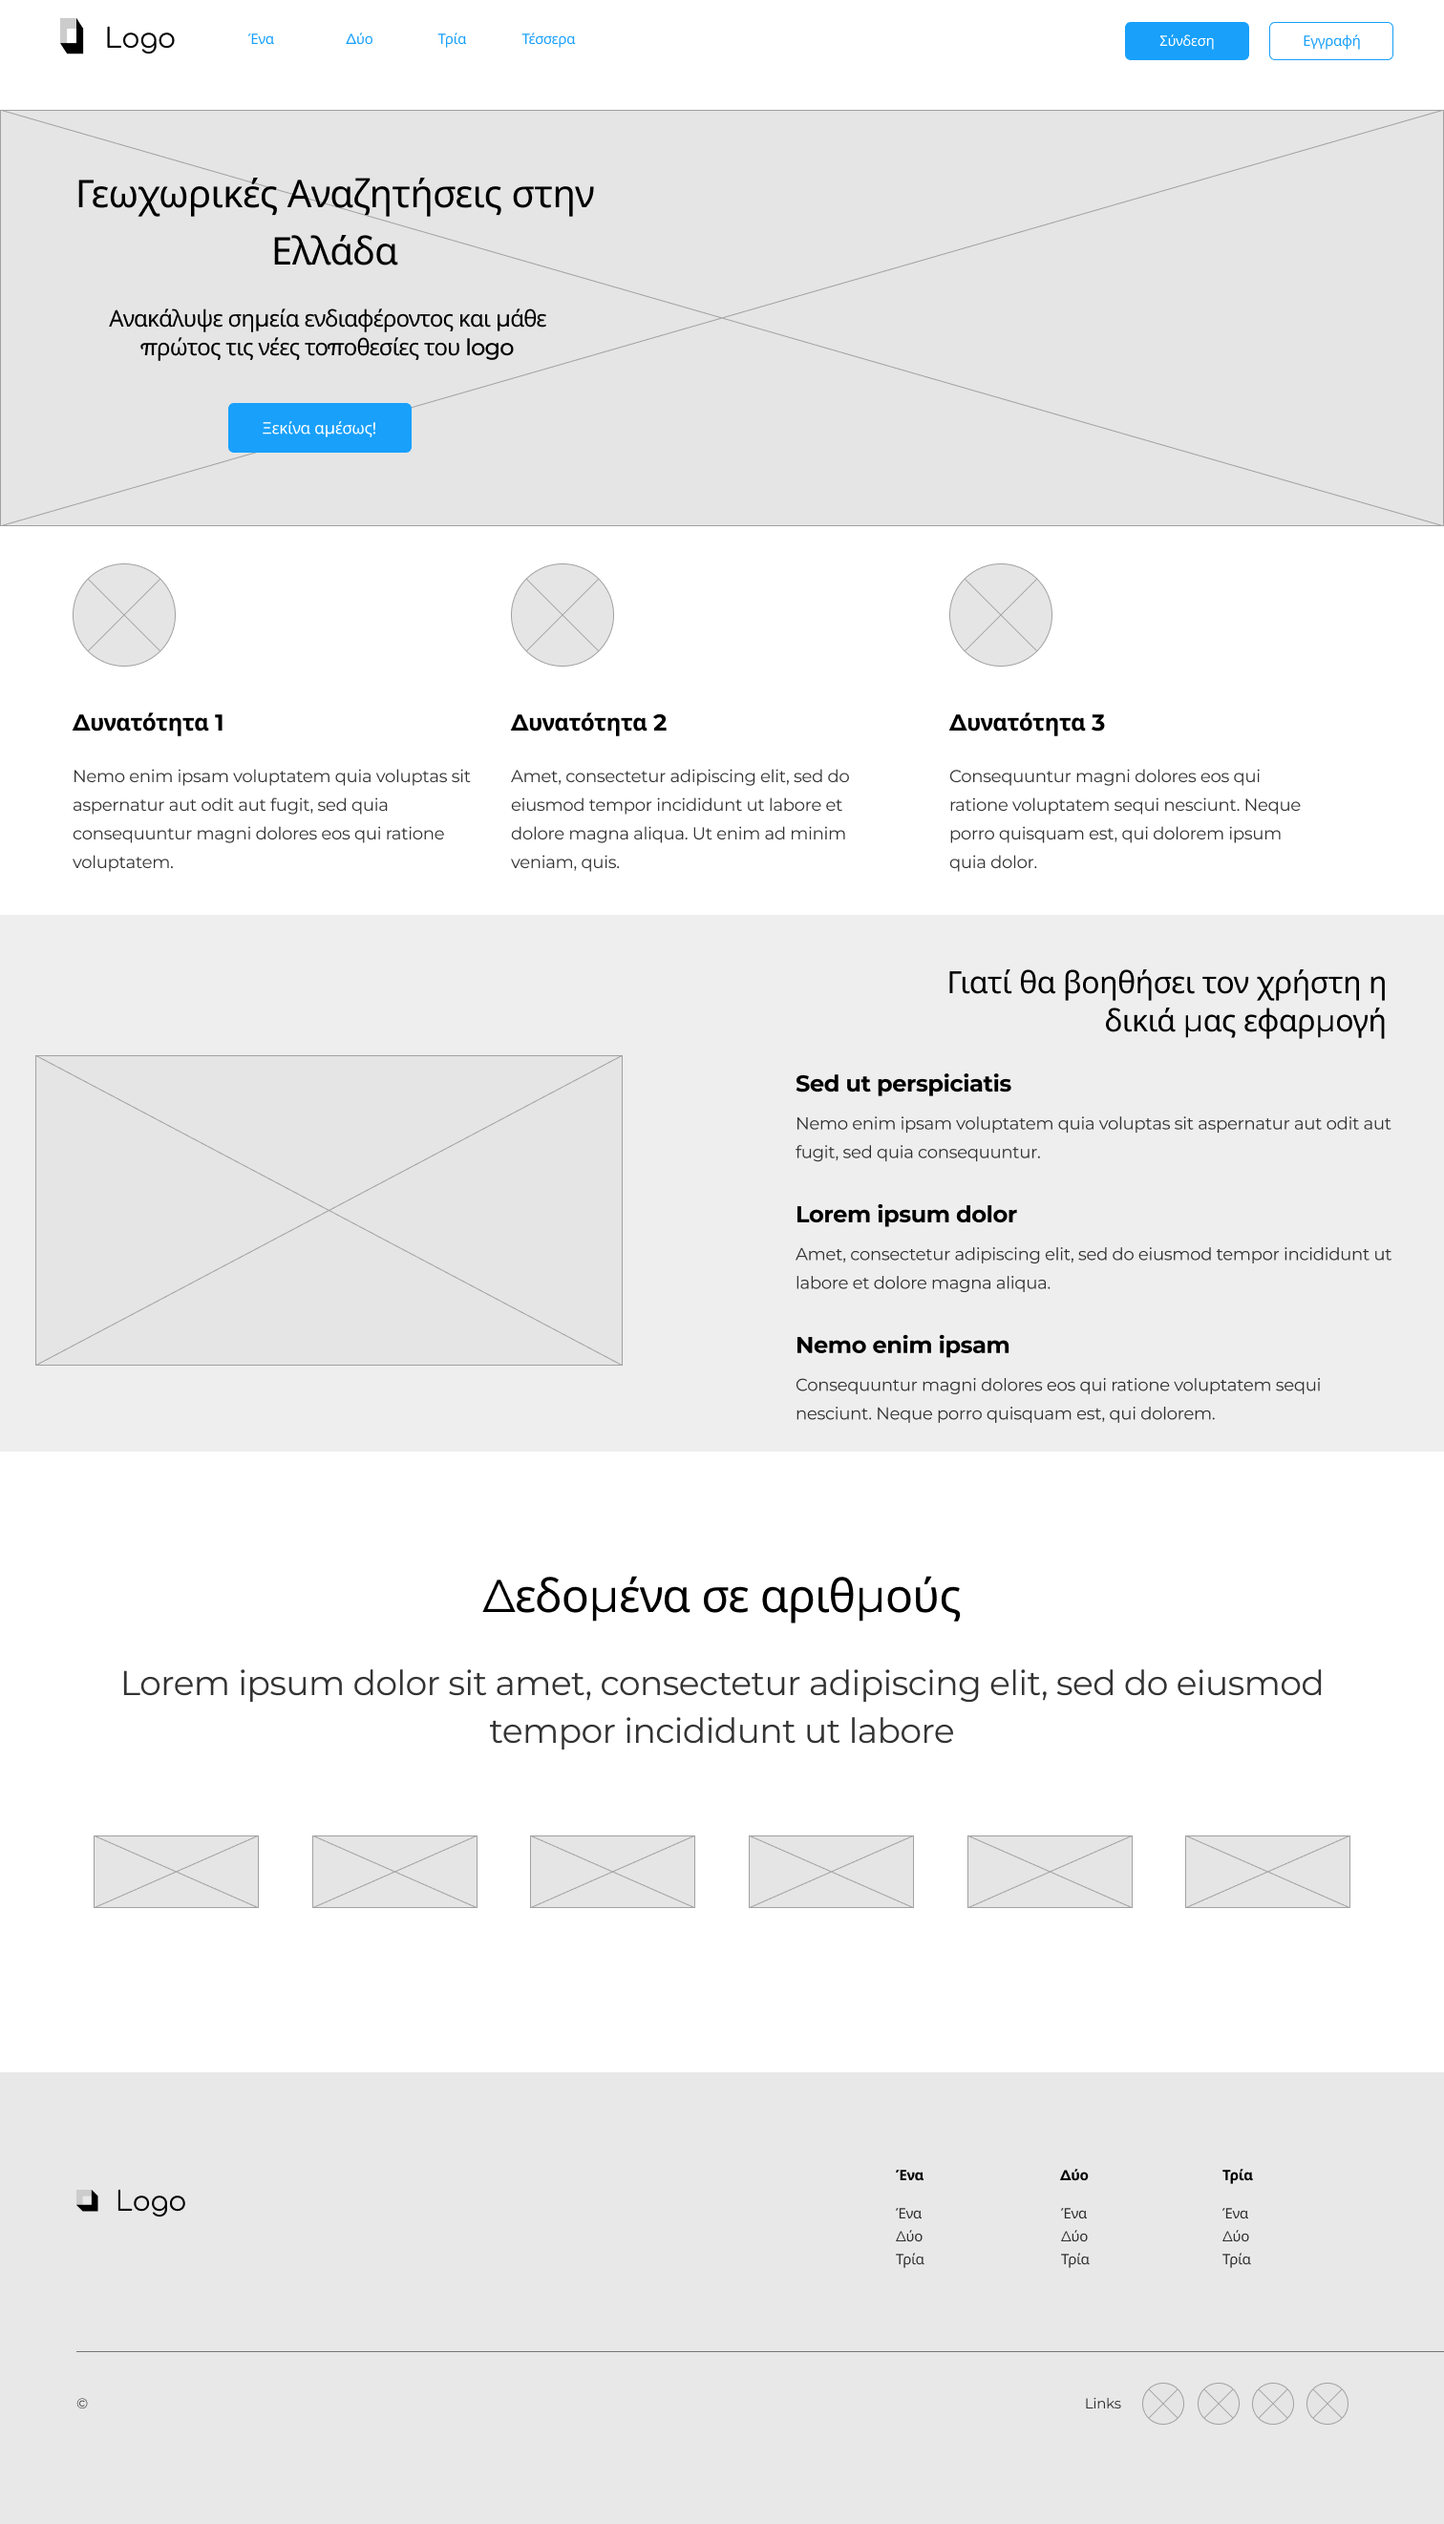
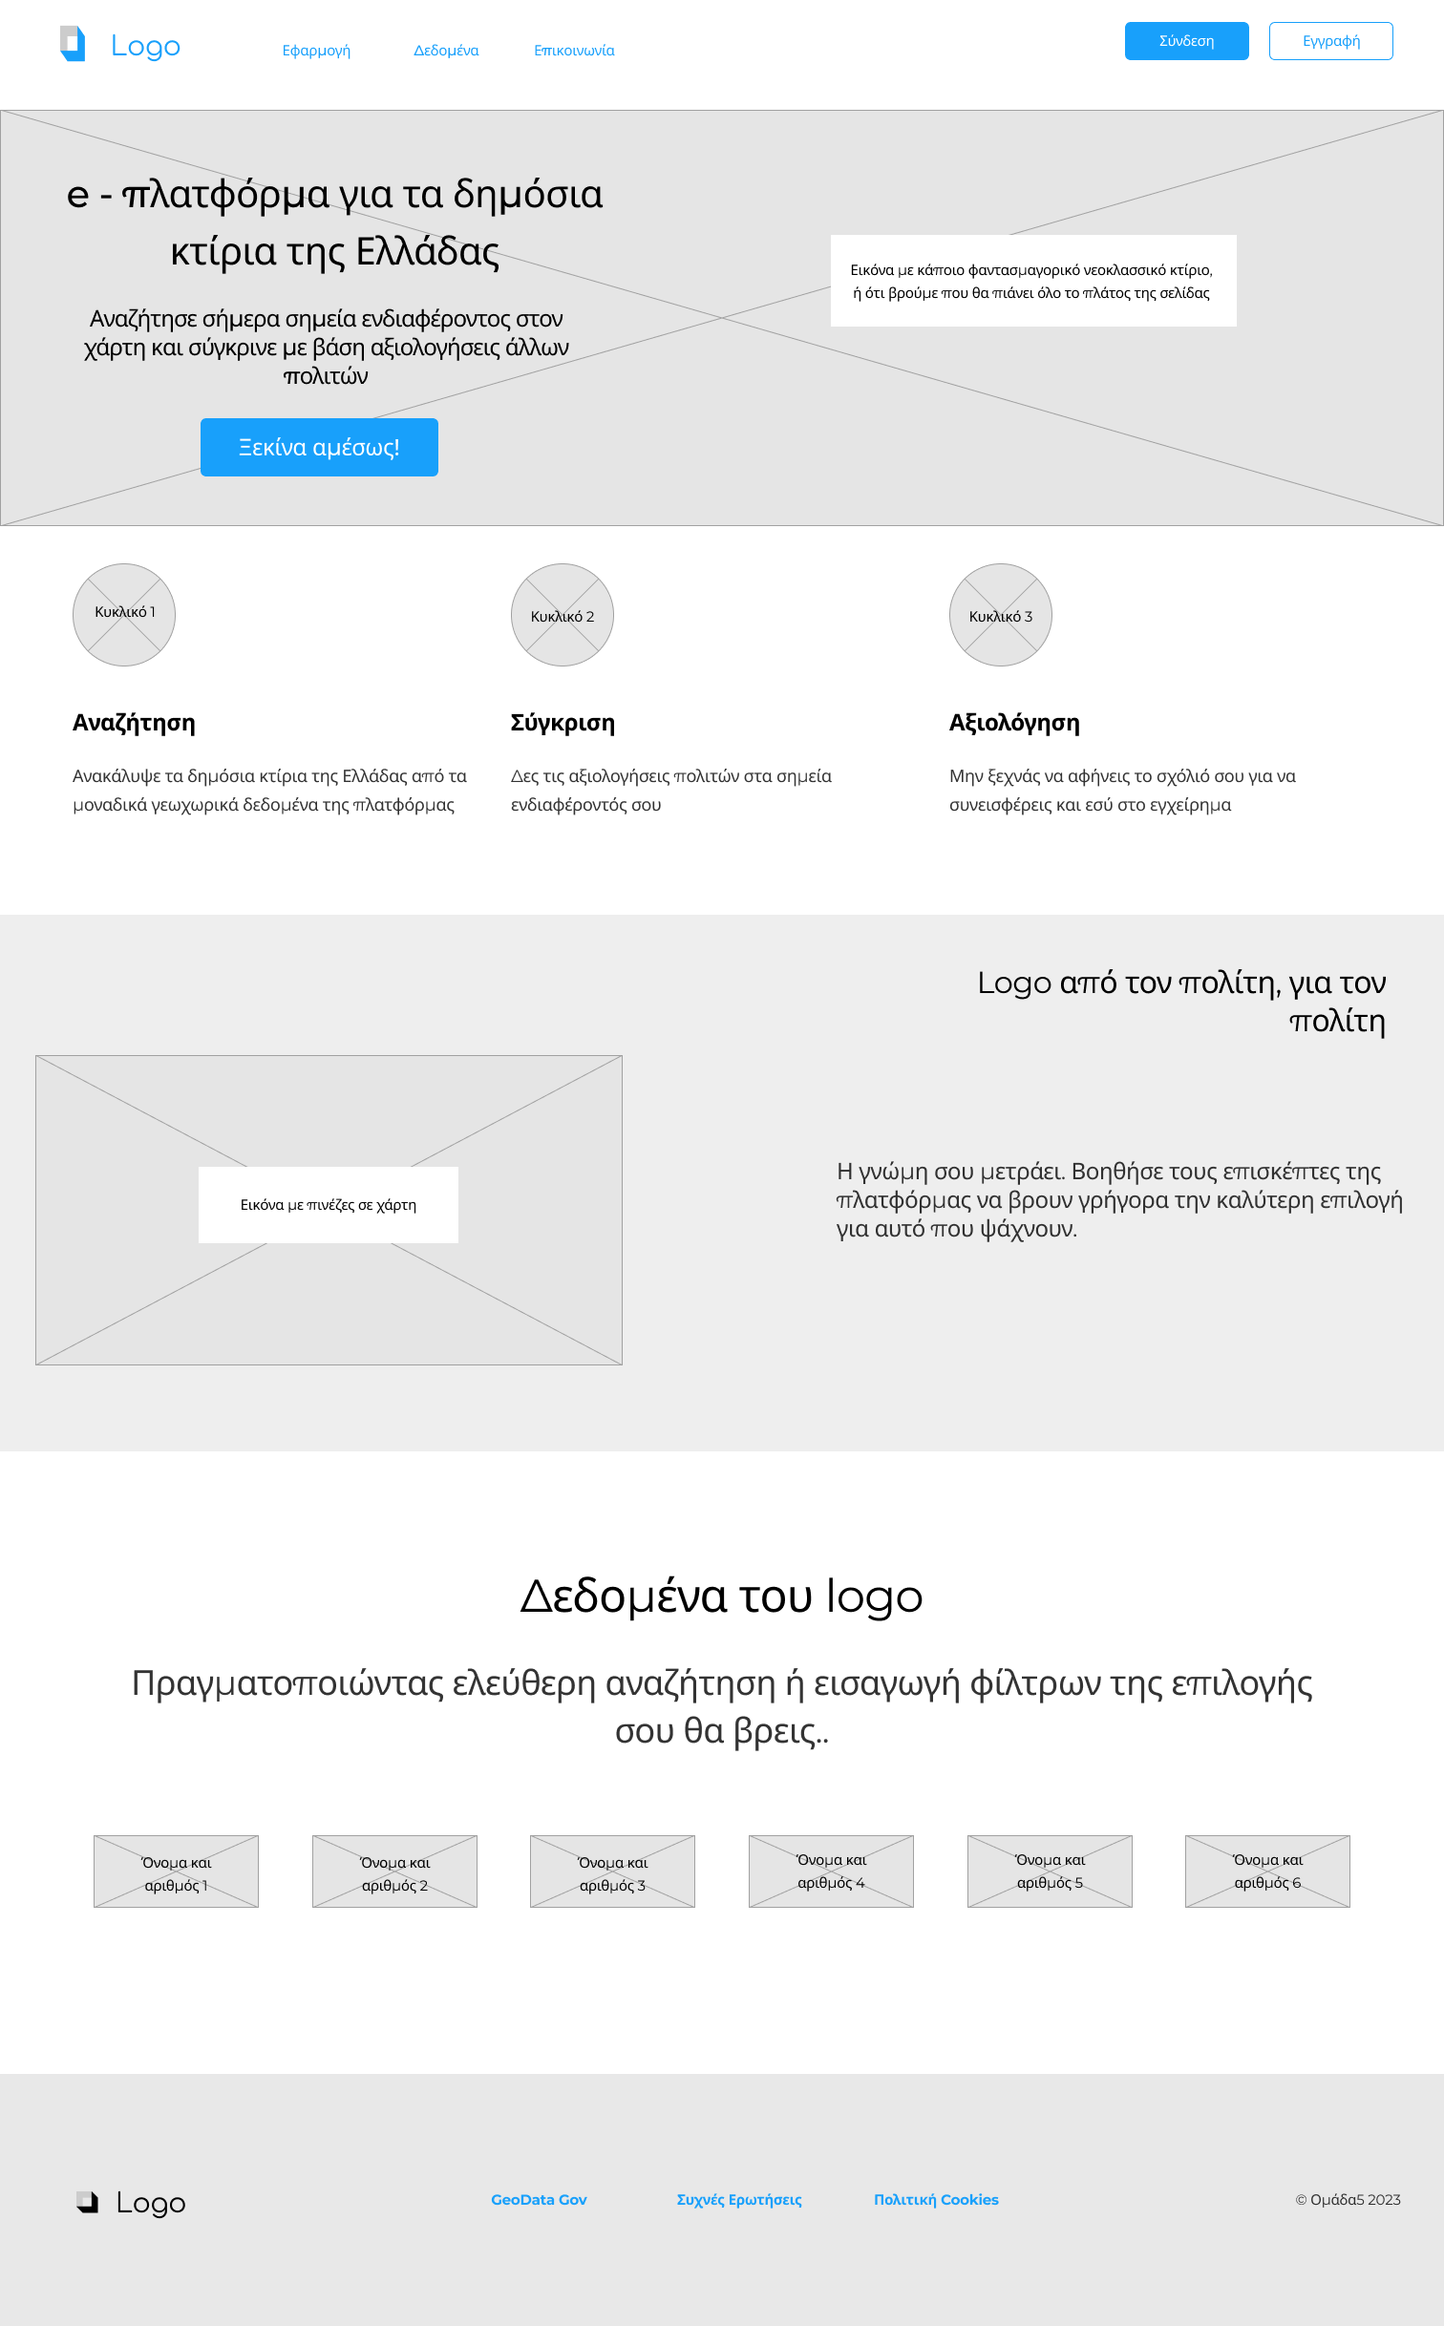
ui ready for project1

diff --git a/docs/ui.md b/docs/ui.md
@@ -1,5 +1,28 @@
-UI Prototypes
+# UI Prototypes
+
+Η πρώτη έκδοση της εφαρμογής σε μορφή πρωτοτύπων μέσης και χαμηλής πιστότητας.  
+Η αρχική σελίδα ενημερώνει τον χρήστη για το περιεχόμενο της εφαρμογής.
+Η κύρια δυνατότητα είναι η αναζήτηση στα δεδομένα του
+[Geodata](https://geodata.gov.gr/). Για αυτό το λόγο προσφέρουμε την αναζήτηση σε 
+ξεχωριστή σελίδα και μόνο από εκεί. Τα προφίλ προσφέρουν τις δυνατότητες που
+αναφέρονται στην εκφώνηση. Η εφαρμογή που έχουμε να υλοποιήσουμε, επειδή τελικά προσφέρει μία αναζήτηση σε χάρτη, 
+θα προσπαθήσουμε να κάνουμε αυτή την αναζήτηση όσο πιο αποτελεσματική γίνεται για τον χρήστη.
+Κάποιοι σύνδεσμοι σε navigation και footer δε θα υλοποιηθούν, όμως είναι χρήσιμοι για να γεμίσει το περιεχόμενο.
 
 ## Αρχική Σελίδα
-
 ![Home Page](images/Home.png)
+
+## Σελίδα Αναζήτησης
+![Search](images/Search.png)
+
+# Προφίλ
+![Profile](images/Profile.png)
+
+# Προφίλ Admin
+![Profile Admin](images/Profile%20Admin.png)
+
+# Εγγραφή
+![Register](images/Signup.png)
+
+# Σύνδεση
+![Login](images/Signin.png)
